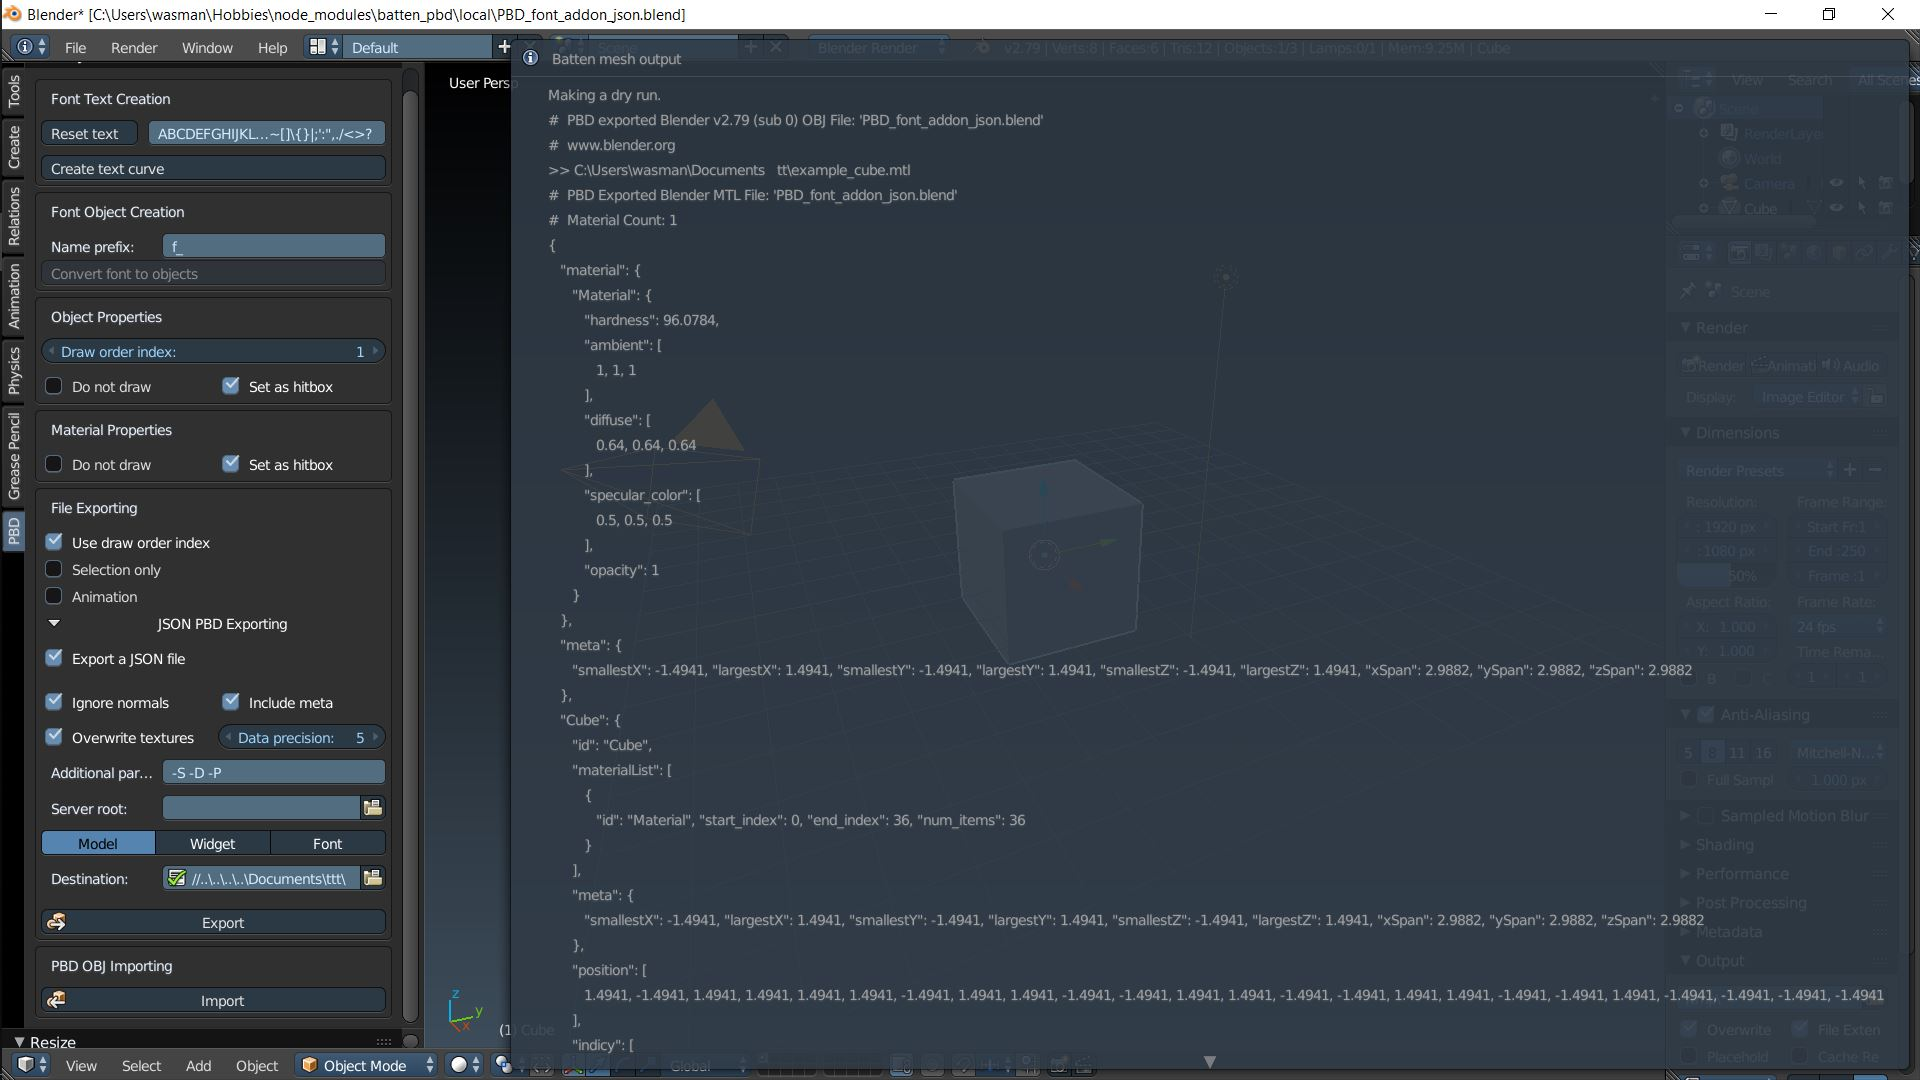
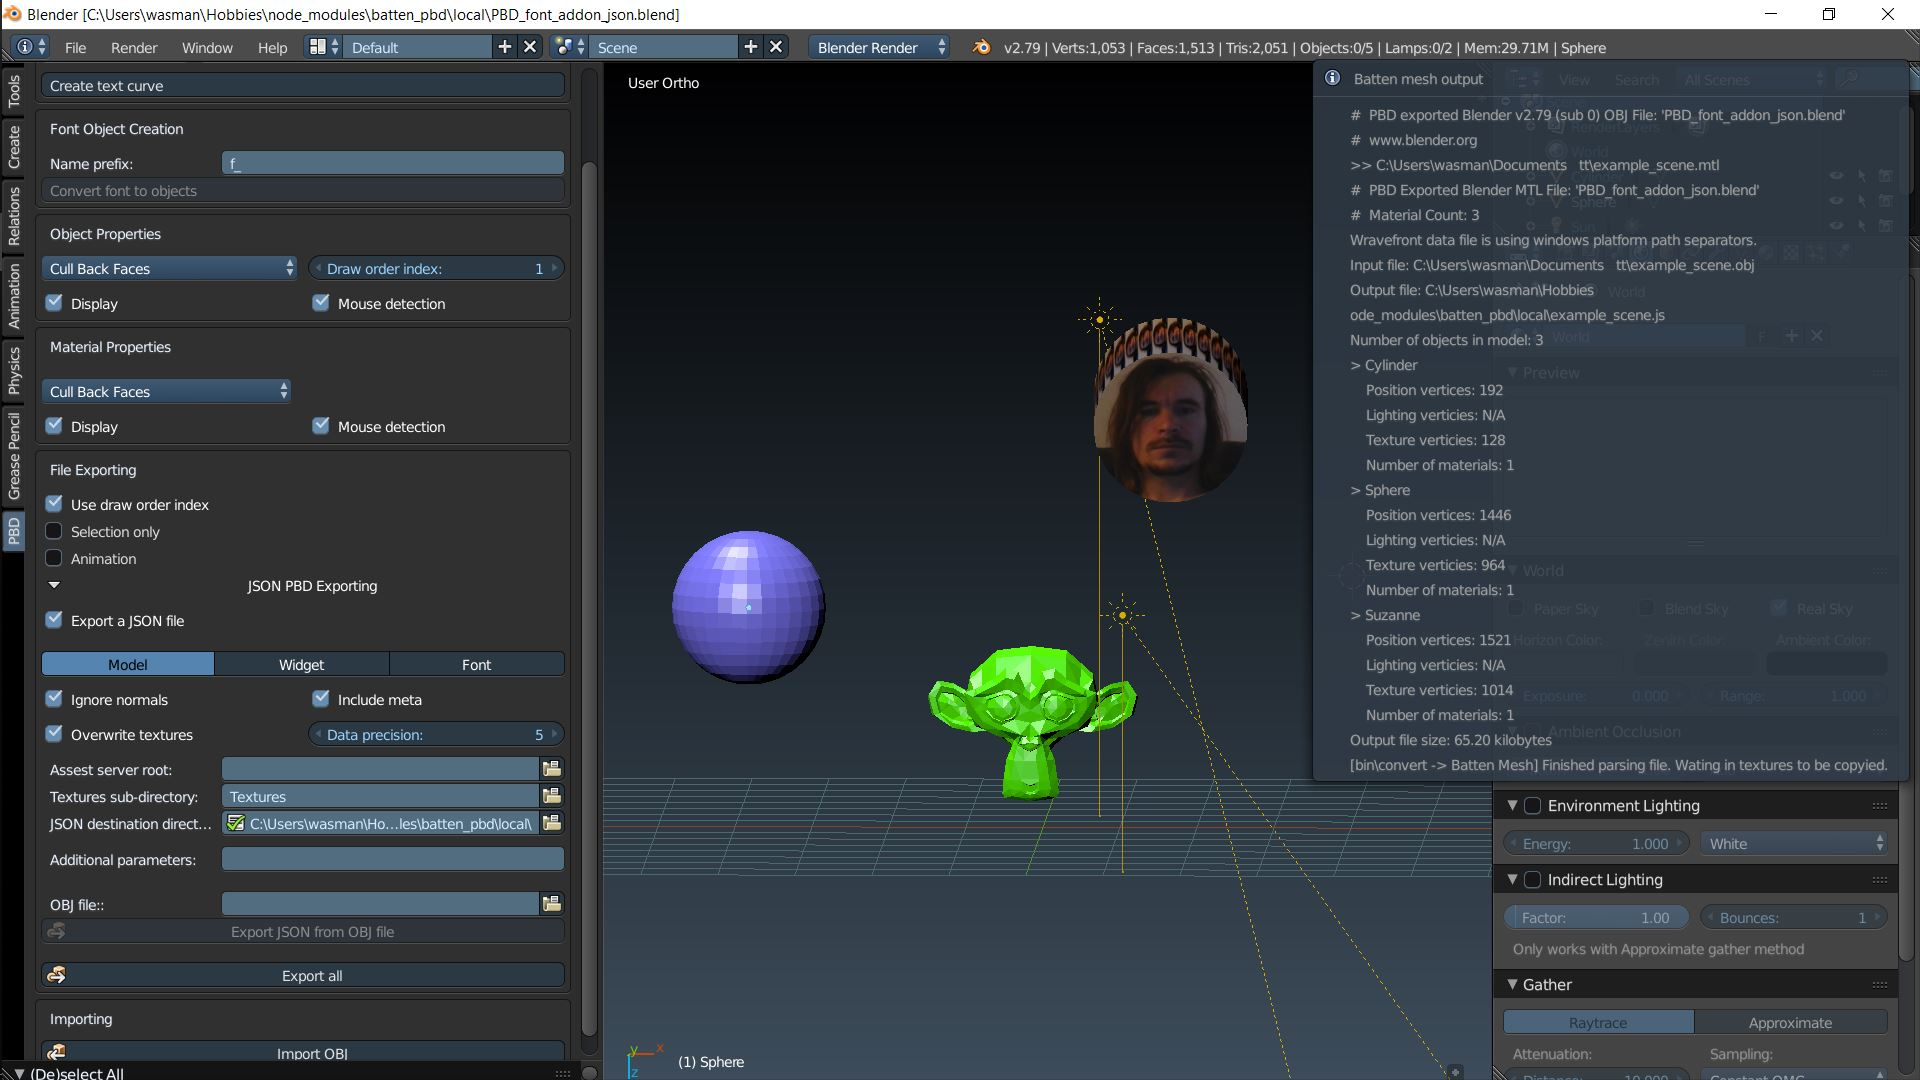
Added polygon culling to import and export. Added some other options.

diff --git a/addon_property.py b/addon_property.py
@@ -5,16 +5,22 @@ class ExportPropMaterial(bpy.types.PropertyGroup):
 
     mouse_region = BoolProperty(
         default=True,
-        name="Set as hitbox",
         description="Only applies to widget exports. Set a material as a hitbox area for widget mouse detection. This will not override object properties"
         )
 
-    do_not_draw = BoolProperty(
-        default=False,
-        name="Do not draw",
-        description="Do not draw the material. This can still be used as a hitbox region however"
+    display = BoolProperty(
+        default=True,
+        description="Draw the material when rendering in the pbd engine. this can still be used as a mouse detection region however"
         )
 
+    cull_face = EnumProperty(items= (('back', 'Cull Back Faces', 'Cull all back facing polygons'),
+                                     ('front', 'Cull Front Faces', 'Cull all fron facing polygons'),
+                                     ('back_font', 'Cull All Faces', 'Cull both front and back polygons'),
+                                     ('none', 'Do not cull', 'Disable polygon culling'),
+                                 ),
+                                 name="Polygon culling",
+                                 default = "back"
+                             )
 
 class ExportPropObject(bpy.types.PropertyGroup):
 
@@ -26,14 +32,22 @@ class ExportPropObject(bpy.types.PropertyGroup):
 
     mouse_region = BoolProperty(
         default=True,
-        name="Set as hitbox",
         description="Only applies to widget exports. Set an object as a hitbox area for widget mouse detection. The bounding rectangle of all the objects will be used if all of them are unchecked (set to false)"
         )
 
-    do_not_draw = BoolProperty(
-        default=False,
-        name="Do not draw",
-        description="Do not draw the object. This can still be used as a hitbox region however"
+    cull_face = EnumProperty(items= (('back', 'Cull Back Faces', 'Cull all back facing polygons'),
+                                     ('front', 'Cull Front Faces', 'Cull all fron facing polygons'),
+                                     ('back_font', 'Cull All Faces', 'Cull both front and back polygons'),
+                                     ('none', 'Do not cull', 'Disable polygon culling'),
+                                 ),
+                                 name="Polygon culling",
+                                 default = "back"
+                             )
+
+    display = BoolProperty(
+        default=True,
+        name="Display",
+        description="Draw the material when rendering in the PBD engine. This can still be used as a mouse detection region however"
         )
 
 class ExportPropScene(bpy.types.PropertyGroup):
@@ -77,11 +91,11 @@ class ExportPropScene(bpy.types.PropertyGroup):
             default=False,
             )
 
-    json_export_type = EnumProperty(items= (('0', 'Model', 'A standard 3d model'),
-                                                 ('1', 'Widget', 'An orthographic model'),
-                                                 ('2', 'Font', 'A font for use with PBD'),
+    json_export_type = EnumProperty(items= (('model', 'Model', 'A standard 3d model'),
+                                                 ('widget', 'Widget', 'An orthographic model'),
+                                                 ('font', 'Font', 'A font for use with PBD'),
                                                  ),
-                                                 default = "0"
+                                                 default = "model"
                                              )
     json_precision = IntProperty(
         name="JSON data precision",
@@ -138,9 +152,17 @@ class ExportPropScene(bpy.types.PropertyGroup):
             subtype='DIR_PATH'
             )
 
+    json_texture_subdir = StringProperty(
+            name="Texture sub-directory",
+            description="(Optional) A relative path to the JSON destination path which will store all of the textures used within the JSON export. Note: Textures are copied from the input specified in the OBJ data to the destination (not moved)",
+            default="Textures",
+            maxlen=1024,
+            subtype='DIR_PATH'
+            )
+
     json_import_path = StringProperty(
             name="Input OBJ file",
-            description="(Optional) A JSON file may be exported by using a input OBJ file instead of the scene objects",
+            description="(Optional) A JSON file may be exported using an input OBJ file instead of the OBJ file exported from the scene",
             default="",
             maxlen=1024,
             subtype='FILE_PATH'

diff --git a/import_obj.py b/import_obj.py
@@ -426,9 +426,11 @@ def create_materials(filepath, relpath,
                         # rgb, filter color, blender has no support for this.
                         pass
                     elif line_id == b'invis':
-                        context_material.pbd_prop.do_not_draw = bool(float_func(line_split[1]))
+                        context_material.pbd_prop.display = bool(float_func(line_split[1]))
                     elif line_id == b'mregion':
                         context_material.pbd_prop.mouse_region = bool(float_func(line_split[1]))
+                    elif line_id == b'cull':
+                        context_material.pbd_prop.cull_face = str(line_split[1].decode("UTF-8"))
                     elif line_id == b'illum':
                         illum = int(line_split[1])
 
@@ -849,7 +851,8 @@ def create_mesh(new_objects,
 
     ob = bpy.data.objects.new(me.name, me)
     ob.pbd_prop.mouse_region = bool(int(custom_property[dataname]["mouse_region"]))
-    ob.pbd_prop.do_not_draw = bool(int(custom_property[dataname]["do_not_draw"]))
+    ob.pbd_prop.display = bool(int(custom_property[dataname]["display"]))
+    ob.pbd_prop.cull_face = custom_property[dataname]["cull"].decode("UTF-8")
     new_objects.append(ob)
 
     # Create the vertex groups. No need to have the flag passed here since we test for the
@@ -1193,7 +1196,7 @@ def load(context,
                             o_name = context_object.decode("UTF-8")
                             if not o_name in custom_property:
                                 custom_property[o_name] = {}
-                            custom_property[o_name]["do_not_draw"] = line_value(line_split)
+                            custom_property[o_name]["display"] = line_value(line_split)
 
                 elif line_start == b'mregion':
                     if use_split_objects:
@@ -1202,6 +1205,14 @@ def load(context,
                             if not o_name in custom_property:
                                 custom_property[o_name] = {}
                             custom_property[o_name]["mouse_region"] = line_value(line_split)
+
+                elif line_start == b'cull':
+                    if use_split_objects:
+                        if context_object:
+                            o_name = context_object.decode("UTF-8")
+                            if not o_name in custom_property:
+                                custom_property[o_name] = {}
+                            custom_property[o_name]["cull"] = line_value(line_split)
 
                 elif line_start == b'g':
                     if use_split_groups:

diff --git a/main_panel.py b/main_panel.py
@@ -31,10 +31,11 @@ class PBDPanel(bpy.types.Panel):
         if context.active_object is not None and context.active_object.type == "MESH":
             box = layout.box()
             box.label("Object Properties")
-            col = box.column()
-            col.prop(context.active_object.pbd_prop, "draw_index")
             row = box.row()
-            row.prop(context.active_object.pbd_prop, "do_not_draw", text="Do not draw")
+            row.prop(context.active_object.pbd_prop, "cull_face", text="")
+            row.prop(context.active_object.pbd_prop, "draw_index")
+            row = box.row()
+            row.prop(context.active_object.pbd_prop, "display", text="Display")
             row.prop(context.active_object.pbd_prop, "mouse_region", text="Mouse detection")
 
 
@@ -42,7 +43,10 @@ class PBDPanel(bpy.types.Panel):
             box = layout.box()
             box.label("Material Properties")
             row = box.row()
-            row.prop(context.active_object.active_material.pbd_prop, "do_not_draw", text="Do not draw")
+            split = box.split(percentage=0.48)
+            split.prop(context.active_object.active_material.pbd_prop, "cull_face", text="")
+            row = box.row()
+            row.prop(context.active_object.active_material.pbd_prop, "display", text="Display")
             row.prop(context.active_object.active_material.pbd_prop, "mouse_region", text="Mouse detection")
 
         box = layout.box()
@@ -80,15 +84,13 @@ class PBDPanel(bpy.types.Panel):
 
             col = box.column()
             col.active = context.scene.pbd_prop.convert_to_json
-            col.prop(context.scene.pbd_prop, "json_additional_option")
+
+            col.prop(context.scene.pbd_prop, "json_asset_root", text="Assest server root")
+            col.prop(context.scene.pbd_prop, "json_texture_subdir", text="Textures sub-directory")
+            col.prop(context.scene.pbd_prop, "json_output_path", icon="SAVE_COPY", text='JSON destination directory')
 
             col.separator()
-            col.prop(context.scene.pbd_prop, "json_asset_root")
-
-            col = box.column()
-            col.active = context.scene.pbd_prop.convert_to_json
-            col.prop(context.scene.pbd_prop, "json_output_path", icon="SAVE_COPY")
-
+            col.prop(context.scene.pbd_prop, "json_additional_option")
 
         col.separator()
         col.separator()

diff --git a/export_json.py b/export_json.py
@@ -29,11 +29,12 @@ def ShowMessageBox(message = "", title = "PBD JSON Exporting", icon = 'INFO'):
     bpy.context.window_manager.popup_menu(draw, title = title, icon = icon)
 
 def save(context,
-         export_type="0",
+         export_type="model",
          input_path="",
          output_path="",
          asset_root="",
-         script_path=False,
+         texture_subdir="",
+         script_path="",
          precision=5,
          ignore_normals=True,
          include_meta=True,
@@ -56,18 +57,27 @@ def save(context,
     if include_meta:
         param.append("-m")
 
-    if export_type is "1":
+    if export_type == "widget":
         param.append("--shift-origin")
         param.append("0,span,0")
-    elif export_type is "2":
+    elif export_type == "font":
         param.append("--set-origin")
         param.append("0,null,0")
         param.append("--shift-origin")
         param.append("null,span,0")
 
+    if asset_root:
+        param.append("--asset-root")
+        param.append(asset_root)
+
+    if texture_subdir:
+        param.append("--texture-path")
+        param.append(texture_subdir)
+
     if addition_option:
         param += addition_option.split()
 
+    print(param)
     popenobj = subprocess.Popen(param, stderr=subprocess.PIPE, stdout=subprocess.PIPE)
     err = ""
     out = ""

diff --git a/export_obj.py b/export_obj.py
@@ -120,8 +120,9 @@ def write_mtl(scene, filepath, path_mode, copy_set, mtl_dict):
                 else:
                     fw('illum 2\n')  # light normaly
 
-                fw('invis %d\n' % int(mat.pbd_prop.do_not_draw))
+                fw('invis %d\n' % int(mat.pbd_prop.display))
                 fw('mregion %d\n' % int(mat.pbd_prop.mouse_region))
+                fw('cull %s\n' % str(mat.pbd_prop.cull_face))
 
             else:
                 # Write a dummy material here?
@@ -133,6 +134,7 @@ def write_mtl(scene, filepath, path_mode, copy_set, mtl_dict):
                 fw('illum 2\n')  # light normaly
                 fw('invis 1\n')
                 fw('mregion 1\n')
+                fw('cull none\n')
 
 
             # Write images!
@@ -514,8 +516,9 @@ def write_file(filepath, objects, scene,
                             else:  # if EXPORT_GROUP_BY_OB:
                                 fw('g %s\n' % obnamestring)
 
-                            fw('invis %d\n' % int(ob.pbd_prop.do_not_draw))
+                            fw('invis %d\n' % int(ob.pbd_prop.display))
                             fw('mregion %d\n' % int(ob.pbd_prop.mouse_region))
+                            fw('cull %s\n' % str(ob.pbd_prop.cull_face))
 
                         subprogress2.step()
 

diff --git a/file_export.py b/file_export.py
@@ -177,6 +177,7 @@ class ExportJSON(bpy.types.Operator):
             input_path=context.scene.pbd_prop.json_import_path,
             output_path=context.scene.pbd_prop.json_output_path,
             asset_root=context.scene.pbd_prop.json_asset_root,
+            texture_subdir=context.scene.pbd_prop.json_texture_subdir,
             script_path=context.user_preferences.addons["bracket_io_scene_pbd"].preferences.script_path,
             precision=context.scene.pbd_prop.json_precision,
             ignore_normals=context.scene.pbd_prop.json_ignore_normals,
